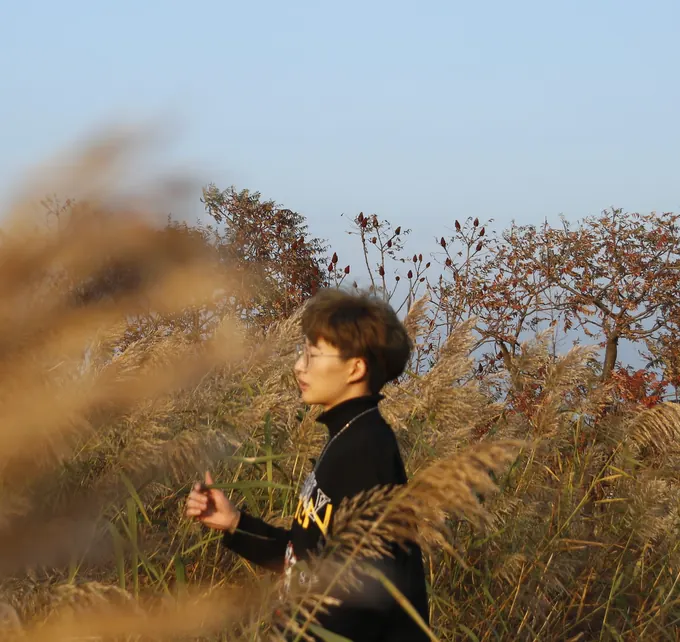
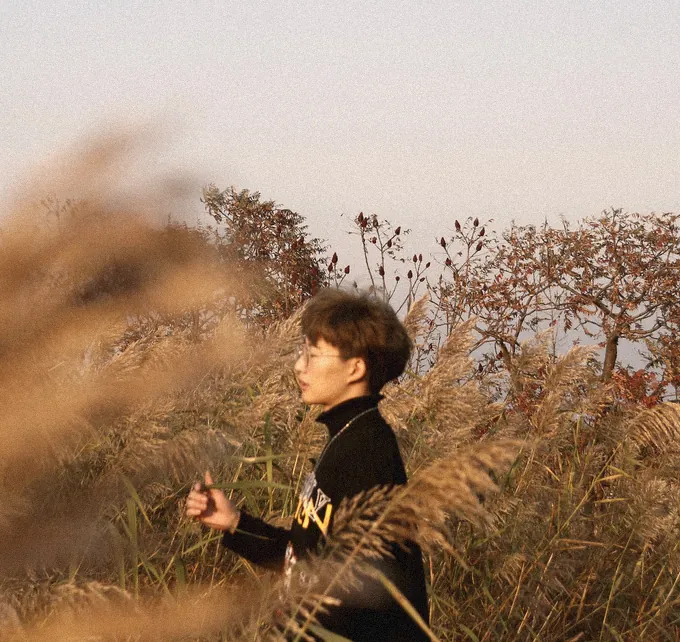
style: vintage-grade polaroid portraits and seat photos flush inside frames

diff --git a/src/app/page.tsx b/src/app/page.tsx
@@ -7,12 +7,14 @@ import TVScreen from "@/components/TVScreen";
 // so the whole spread scales as one piece on any window.
 const px = (k: number) => `calc(${k} * var(--wb))`;
 
-// inner photo window of the polaroid frame, as a fraction of the frame box
+// inner photo window of the polaroid frame, as a fraction of the frame box.
+// the photo layer sits slightly larger than the punched hole so the frame's
+// pale inner lip is covered and no white seam shows around the picture.
 const POLAROID_INNER = {
-  left: "12.35%",
-  top: "12.62%",
-  width: "78.8%",
-  height: "61.4%",
+  left: "11%",
+  top: "10%",
+  width: "81%",
+  height: "65%",
 };
 
 export default function Home() {
